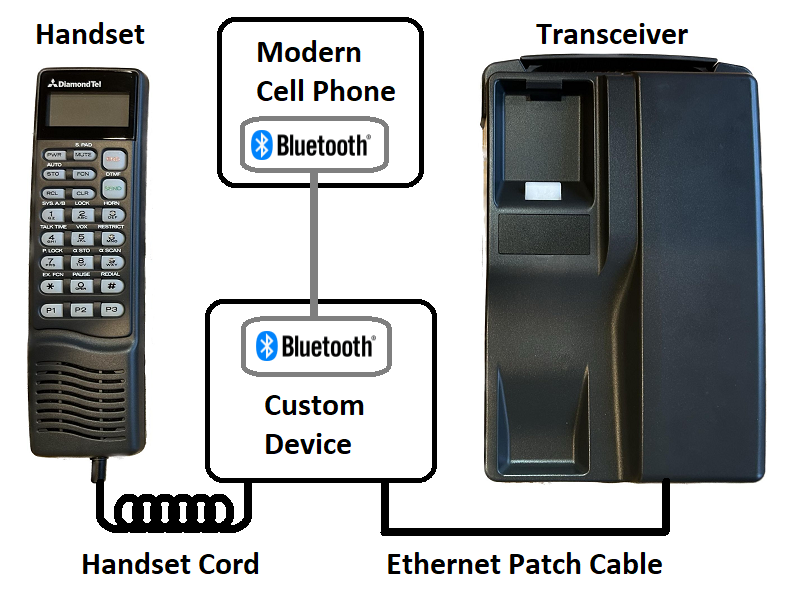
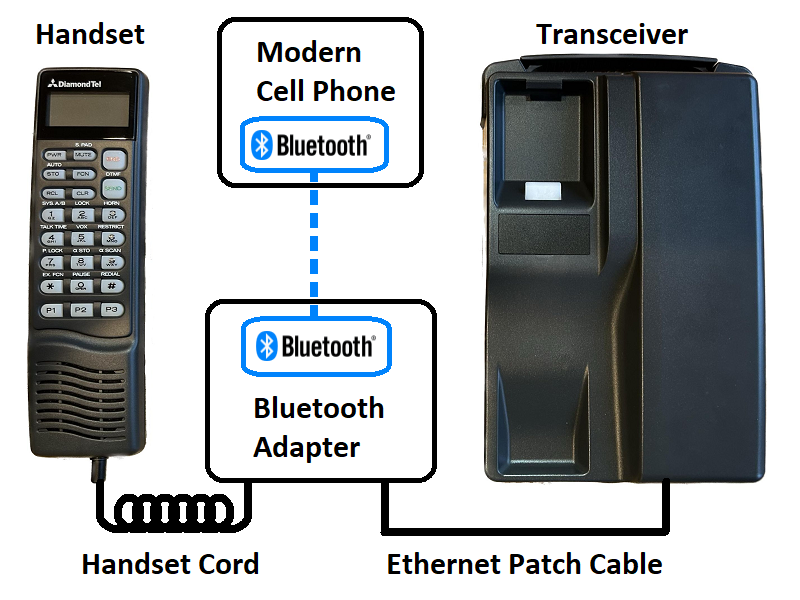
Change README terminology and improve basic design diagram

Changed region(s): [[0.2812, 0.18, 0.5, 0.63], [0.3125, 0.66, 0.5, 0.78]]

diff --git a/README.md b/README.md
@@ -84,21 +84,16 @@ There's too much information to put in one README. Most directories of this proj
 
 ![Basic Component Diagram](readme/basic_component_diagram.png)
 
-- A custom device connects inline between the DiamondTel Model 92 handset and transceiver.
-- The transceiver provides its power supply and power on/off functionality.
-    - Power supply, ground, and handset power button connection is passed through the custom device.
-    - The transceiver's power supply may be a battery or an external power supply (AC/DC adapter, cigarette lighter adapter, or a connection to vehicle wiring).
-- The custom device takes over full control of the handset to:
-    - Update the display.
-    - Turn the backlight on/off.
-    - Turn speakers/microphone on/off.
-    - Detect button presses.
-    - Produce sound effects for button presses, ringtones, etc.
-- The custom device communicates with the transceiver to monitor the transciever battery level.    
+- A custom Bluetooth adapter connects inline between the DiamondTel Model 92 handset and transceiver.
+- The transceiver provides its power supply and power on/off functionality to the Bluetooth adapter.
+    - Power supply, ground, and handset power button connection is passed through the Bluetooth adapter between the handset and transceiver.
+    - When the transceiver powers on, the Bluetooth adapter also powers on via the same power supply that powers the handset.
+- The Bluetooth adapter takes full control of the handset.
+- The Bluetooth adapter fully implements all behavior that is experienced by interacting with the handset. Much of it is a replica of (or inspired by) the DiamondTel Model 92's original behavior.
+- The Bluetooth adapter communicates with the transceiver to monitor the transceiver battery level.    
 - There is no direct pass-through communication between the handset and transceiver.
-    - As far as the transceiver knows, it simply powers up and remains in its default idle state at all times (except for when the custom device requests the battery level).
-- The custom device fully implements all behavior that is experienced by interacting with the handset. Much of it is a replica of (or inspired by) the DiamondTel Model 92's original behavior.
-- The custom device pairs with a modern cell phone using the Bluetooth Hands-Free Profile (HFP). This Bluetooth connection is used to:
+    - As far as the transceiver knows, it simply powers up and remains in its default idle state at all times (except for when the Bluetooth adapter requests the battery level).
+- The Bluetooth adapter pairs with a modern cell phone using the Bluetooth Hands-Free Profile (HFP). This Bluetooth connection is used to:
     - Monitor/display cell service status and signal strength, etc.
     - Handle incoming calls.
     - Send outgoing calls.
@@ -110,7 +105,7 @@ Pros:
 - Plug-n-play design - no modifications to the original phone.
 - No separate power supply is needed.
 - Can pair with practically any modern cell phone (no separate SIM card needed).
-- The vintage mobile phone has the appearance of being a completely original and functioning phone (assuming that the custom device is hidden, which is easy when the phone is installed in a vehicle as a car phone).
+- The vintage mobile phone has the appearance of being a completely original and functioning phone (assuming that the Bluetooth adapter is hidden, which is easy when the phone is installed in a vehicle as a car phone).
 - Full control of implementing any desired behavior (within limitations of the handset display/button capabilities, and within limitations of Bluetooth HFP), including functionality that was never available/possible on the original phone (e.g., Caller ID).
 
 Cons:
@@ -129,7 +124,7 @@ Because this design relies on a direct wired interface with the handset and tran
 
 ### Paired Modern Cell Phone
 
-Any modern cell phone that supports Bluetooth Hands-Free Profile (HFP) _should_ (in theory) be able to pair with the custom device and work properly. I have a very limited selection of phones to test with, so I can't make any guarantees.
+Any modern cell phone that supports Bluetooth Hands-Free Profile (HFP) _should_ (in theory) be able to pair with the Bluetooth adapter and work properly. I have a very limited selection of phones to test with, so I can't make any guarantees.
 
 These are the modern cell phones performed at least some basic testing with:
 
